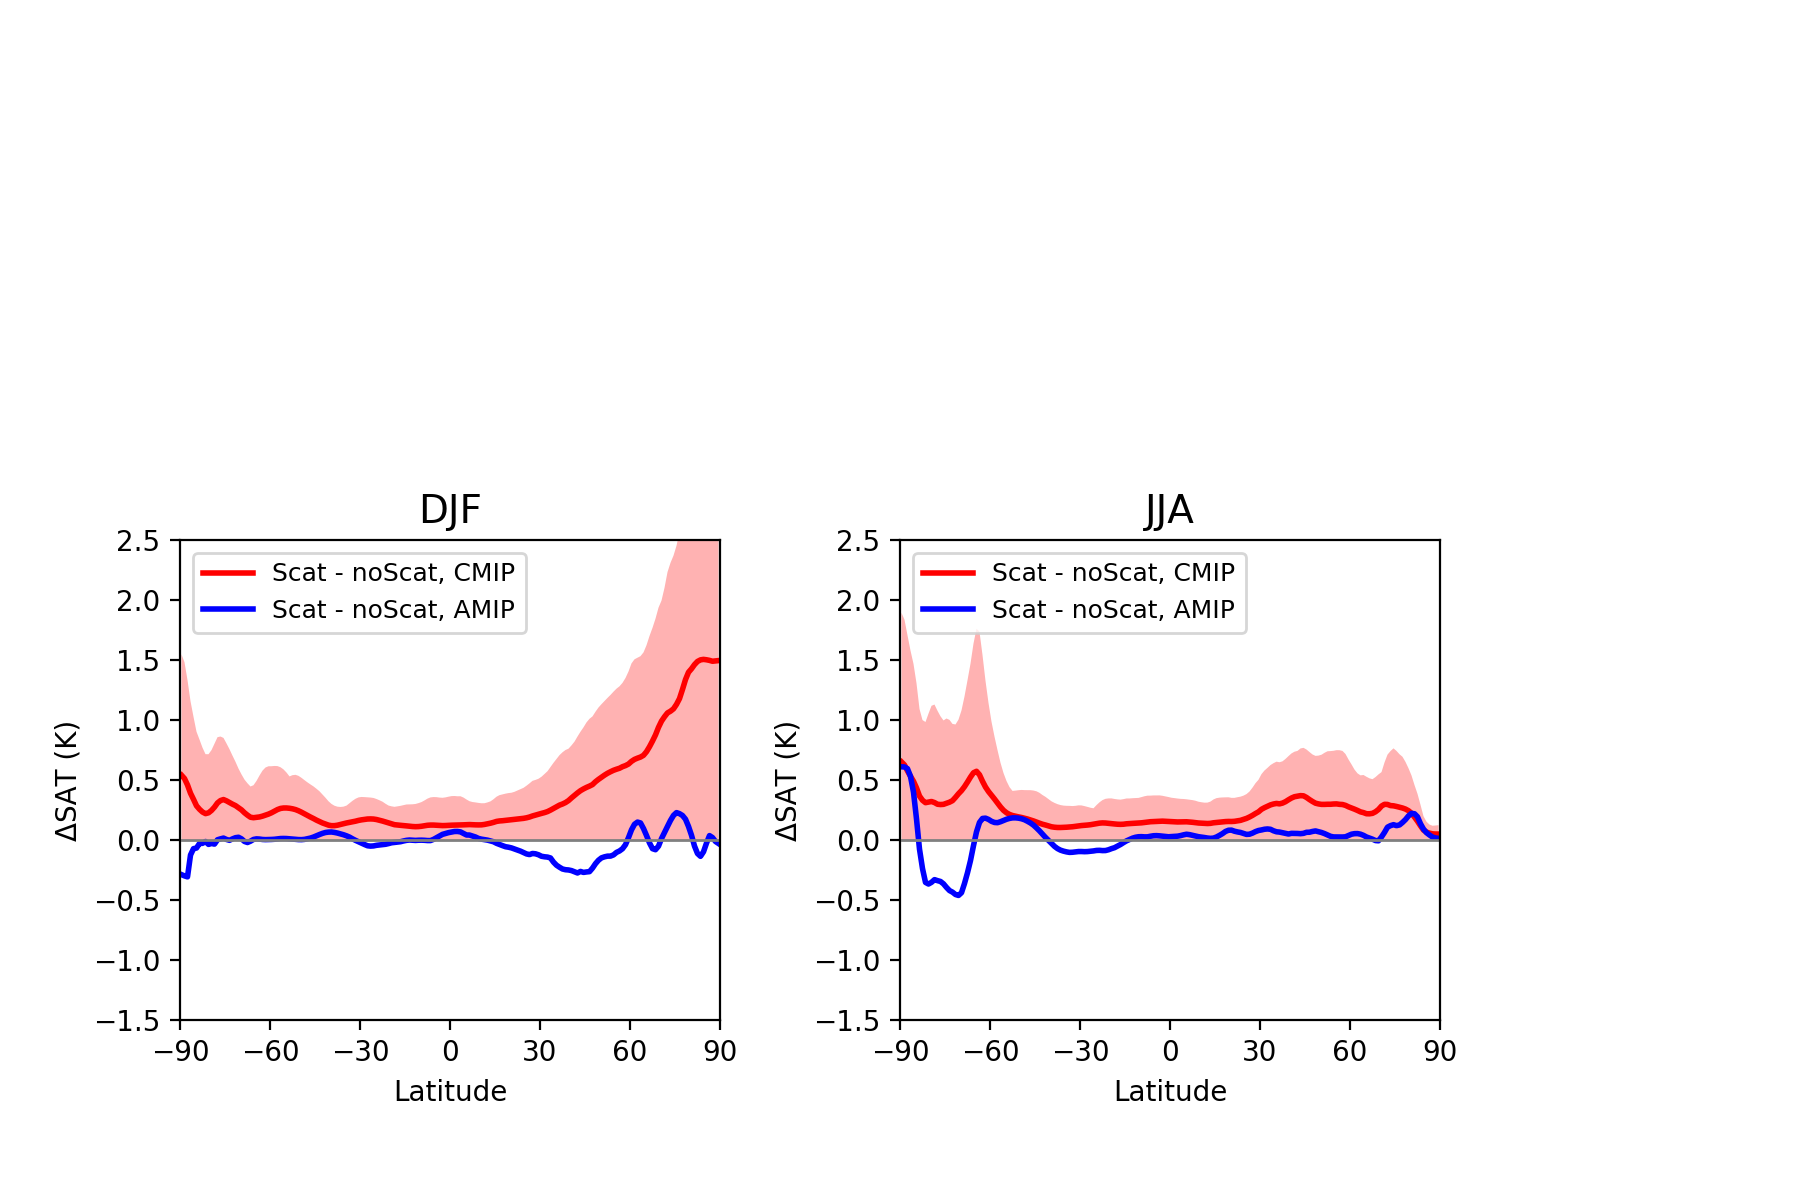
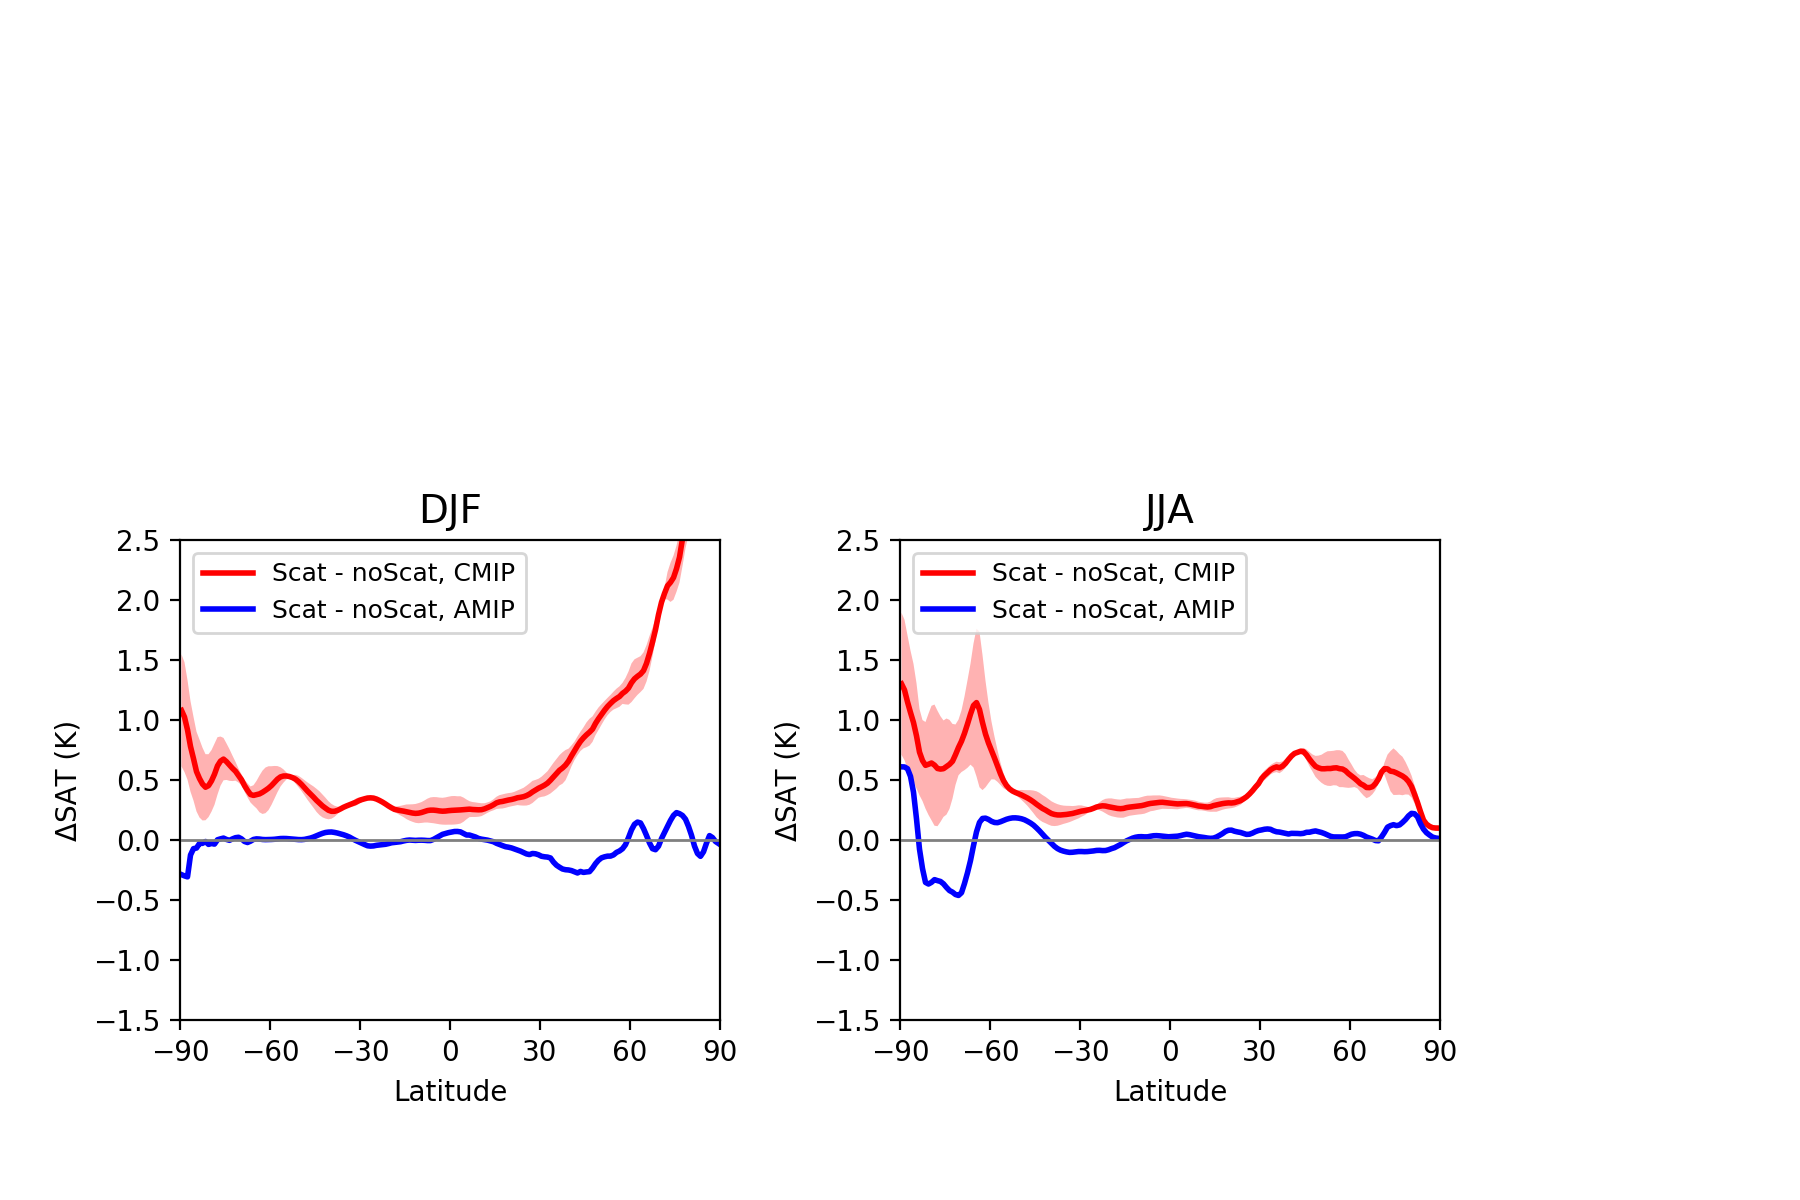
2 ens tair 10year

Changed region(s): [[0.0933, 0.4317, 0.4044, 0.7092], [0.4978, 0.5858, 0.8089, 0.7092]]

diff --git a/d4_zonal_mean_model_vs_model_Tair_ens_spread.py b/d4_zonal_mean_model_vs_model_Tair_ens_spread.py
@@ -44,13 +44,13 @@ exp_pref_CMIP=["CMIP_RRTMG_UMRad_scat.ne30_ne30.cori-knl",\
                "CMIP_RRTMG_UMRad_scat.ne30_ne30.cori-knl-ens1"] #,\
                #"CMIP_RRTMG_UMRad_scat.ne30_ne30.cori-knl-ens2",\
                #"CMIP_RRTMG_UMRad_scat.ne30_ne30.cori-knl-ens3"]
+num_ens=2
+zm_tair_4ens_ctl_DJF=np.zeros((num_ens,nlat))
+zm_tair_4ens_exp_DJF=np.zeros((num_ens,nlat))
+zm_tair_4ens_ctl_JJA=np.zeros((num_ens,nlat))
+zm_tair_4ens_exp_JJA=np.zeros((num_ens,nlat))
 
-zm_tair_4ens_ctl_DJF=np.zeros((4,nlat))
-zm_tair_4ens_exp_DJF=np.zeros((4,nlat))
-zm_tair_4ens_ctl_JJA=np.zeros((4,nlat))
-zm_tair_4ens_exp_JJA=np.zeros((4,nlat))
-
-for iens in range(0,2):
+for iens in range(0,num_ens):
     fpath_ctl="/global/cscratch1/sd/xianwen/E3SM_simulations/"+\
             ctl_pref_CMIP[iens]+"/archive/climo_2010-2019/"
     fpath_exp="/global/cscratch1/sd/xianwen/E3SM_simulations/"+\
